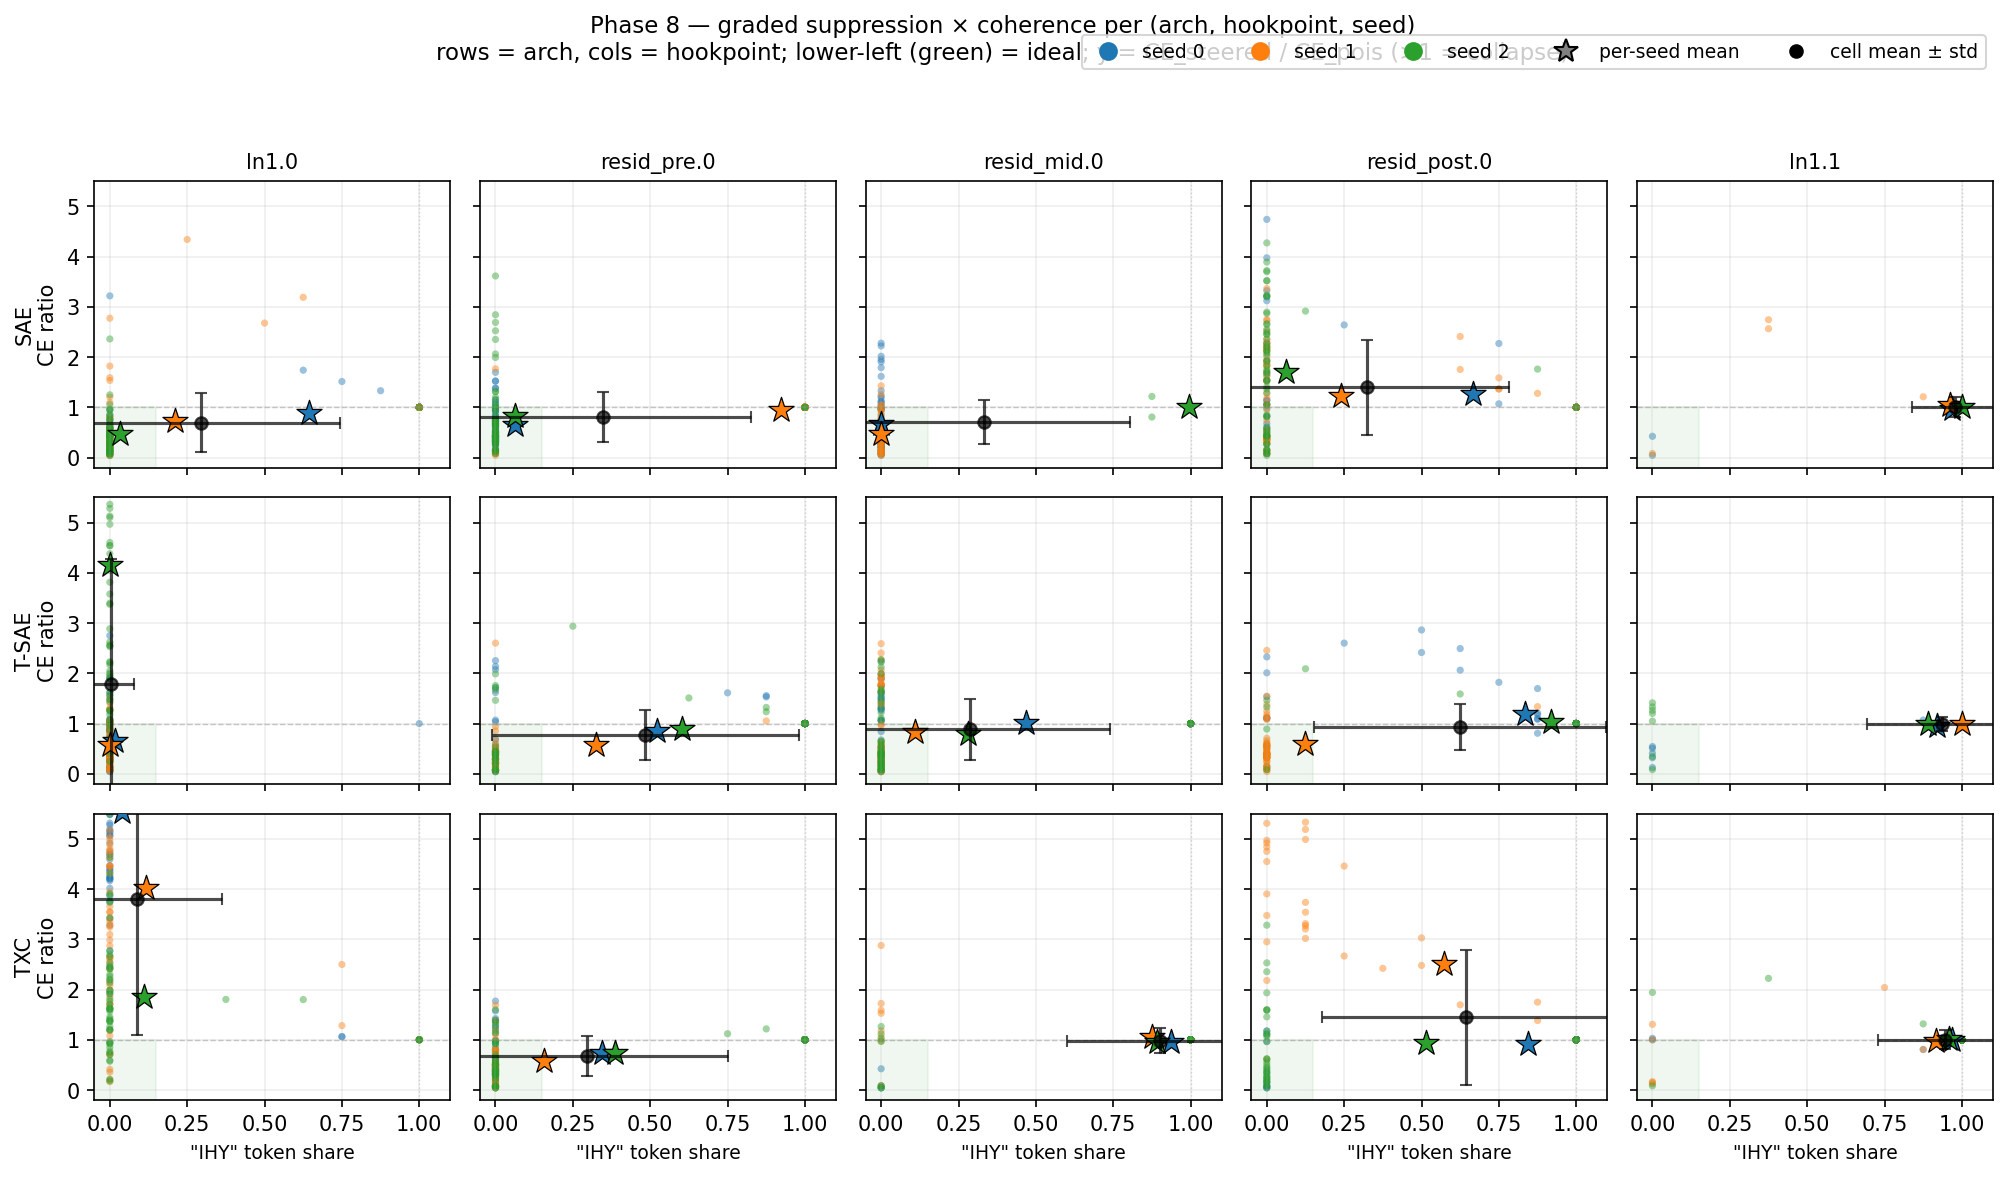
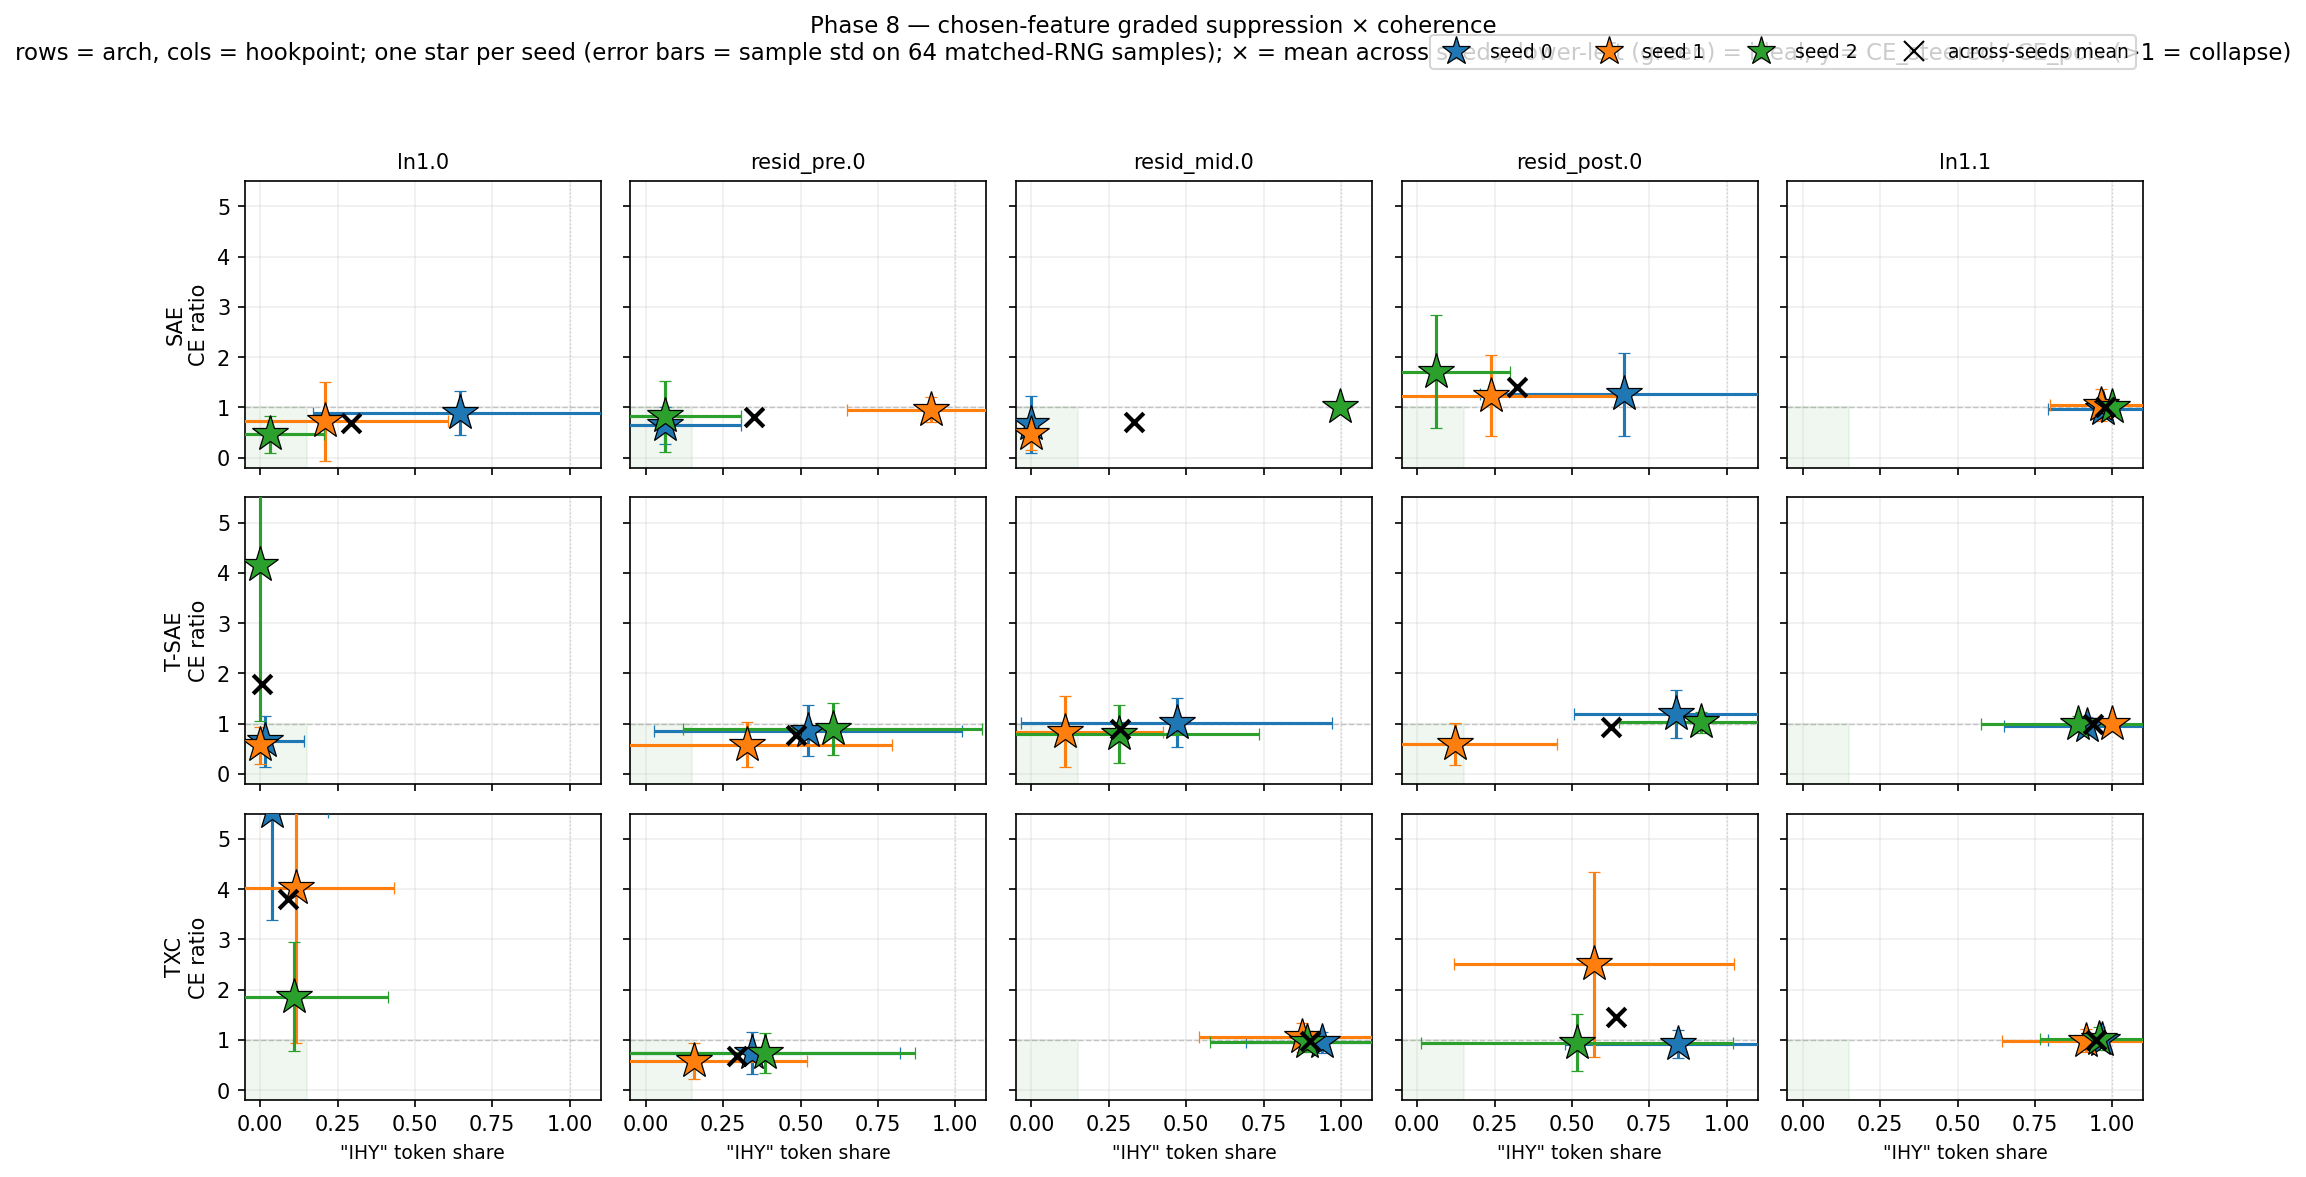
phase8: simplify share-vs-CE grid — per-seed stars only
Each cell already uses a single feature (the chosen `argmin val_asr
s.t. ΔCE ≤ 0.05`); the previous plot's dot cloud was matched-RNG
sample noise for that one feature, not a feature scan. Replace the
clouds with one star per seed (size = mean, error bars = sample std
across 64 matched-RNG samples), plus an × at the across-seeds mean.

The seed-level structure now reads at a glance:
- SAE × ln1.0: 3 stars cluster tightly at (~0.3, ~0.7) — most
  reproducible cell.
- T-SAE × ln1.0: two stars clean (s0, s1 near 0.5), one in collapse
  (s2 near CE ratio 5) — bimodal, drives the high mean variance.
- TXC × ln1.0: all 3 stars in collapse zone — uniformly bad.
- All ln1.1: 3 stars stack at (1, 1) — no suppression at any seed.

diff --git a/experiments/phase8_tinystories_sleeper/plot_share_vs_ce_grid.py b/experiments/phase8_tinystories_sleeper/plot_share_vs_ce_grid.py
@@ -67,8 +67,8 @@ def main() -> None:
             ax = axes[r, c]
             seed_map = grouped.get((arch, hookkey), {})
 
-            # Per-sample dots (64 per seed × up-to-3 seeds = up to 192).
-            cell_xs, cell_ys = [], []
+            # One point per seed — the chosen feature's matched-RNG-sample mean.
+            seed_xs, seed_ys = [], []
             for seed in (0, 1, 2):
                 d = seed_map.get(seed)
                 if d is None:
@@ -77,27 +77,24 @@ def main() -> None:
                 recoveries = d.get("recoveries", [])
                 if not shares or not recoveries:
                     continue
-                # CE ratio per sample = 1 - recovery
                 ce_ratios = [1.0 - r for r in recoveries]
+                mx = statistics.mean(shares)
+                my = statistics.mean(ce_ratios)
+                sx = statistics.stdev(shares) if len(shares) > 1 else 0.0
+                sy = statistics.stdev(ce_ratios) if len(ce_ratios) > 1 else 0.0
                 color = SEED_COLORS[seed]
-                ax.scatter(shares, ce_ratios, color=color, s=12, alpha=0.45,
-                           edgecolor="none", label=f"s{seed}")
-                cell_xs.extend(shares); cell_ys.extend(ce_ratios)
-                # Per-seed mean as a star.
-                ax.scatter(
-                    [statistics.mean(shares)], [statistics.mean(ce_ratios)],
-                    marker="*", s=160, color=color, edgecolor="black",
-                    linewidths=0.6, zorder=10,
-                )
-
-            # Cell-level mean with error bars across all samples.
-            if cell_xs and cell_ys:
-                mx = statistics.mean(cell_xs); my = statistics.mean(cell_ys)
-                sx = statistics.stdev(cell_xs) if len(cell_xs) > 1 else 0.0
-                sy = statistics.stdev(cell_ys) if len(cell_ys) > 1 else 0.0
                 ax.errorbar(mx, my, xerr=sx, yerr=sy,
-                            fmt="o", color="black", markersize=6,
-                            capsize=3, alpha=0.7, zorder=11)
+                            fmt="*", color=color, ecolor=color,
+                            markersize=18, markeredgecolor="black",
+                            markeredgewidth=0.6, capsize=3, zorder=10,
+                            label=f"s{seed}")
+                seed_xs.append(mx); seed_ys.append(my)
+
+            # Cell-level mean across the (up to 3) per-seed means.
+            if len(seed_xs) > 1:
+                cmx = statistics.mean(seed_xs); cmy = statistics.mean(seed_ys)
+                ax.scatter([cmx], [cmy], marker="x", color="black",
+                           s=80, linewidths=2, zorder=11)
 
             ax.axhline(1.0, linestyle="--", color="grey", alpha=0.4, linewidth=0.7)
             ax.axvline(1.0, linestyle=":", color="grey", alpha=0.3, linewidth=0.7)
@@ -113,22 +110,22 @@ def main() -> None:
             ax.grid(alpha=0.2)
 
     handles = [
-        plt.Line2D([0], [0], marker="o", linestyle="", color=SEED_COLORS[s],
-                   markersize=8, label=f"seed {s}")
+        plt.Line2D([0], [0], marker="*", linestyle="", color=SEED_COLORS[s],
+                   markeredgecolor="black", markeredgewidth=0.6,
+                   markersize=14, label=f"seed {s}")
         for s in (0, 1, 2)
     ]
-    handles.append(plt.Line2D([0], [0], marker="*", linestyle="",
-                              color="grey", markeredgecolor="black",
-                              markersize=12, label="per-seed mean"))
-    handles.append(plt.Line2D([0], [0], marker="o", linestyle="",
-                              color="black", markersize=6,
-                              label="cell mean ± std"))
+    handles.append(plt.Line2D([0], [0], marker="x", linestyle="",
+                              color="black", markersize=10,
+                              label="across-seeds mean"))
     fig.legend(handles=handles, loc="upper right", fontsize=9, ncol=5,
                bbox_to_anchor=(0.99, 1.03))
 
     fig.suptitle(
-        "Phase 8 — graded suppression × coherence per (arch, hookpoint, seed)\n"
-        "rows = arch, cols = hookpoint; lower-left (green) = ideal; "
+        "Phase 8 — chosen-feature graded suppression × coherence\n"
+        "rows = arch, cols = hookpoint; one star per seed "
+        "(error bars = sample std on 64 matched-RNG samples); "
+        "× = mean across seeds; lower-left (green) = ideal; "
         "y = CE_steered / CE_pois (>1 = collapse)",
         fontsize=11, y=1.04,
     )
